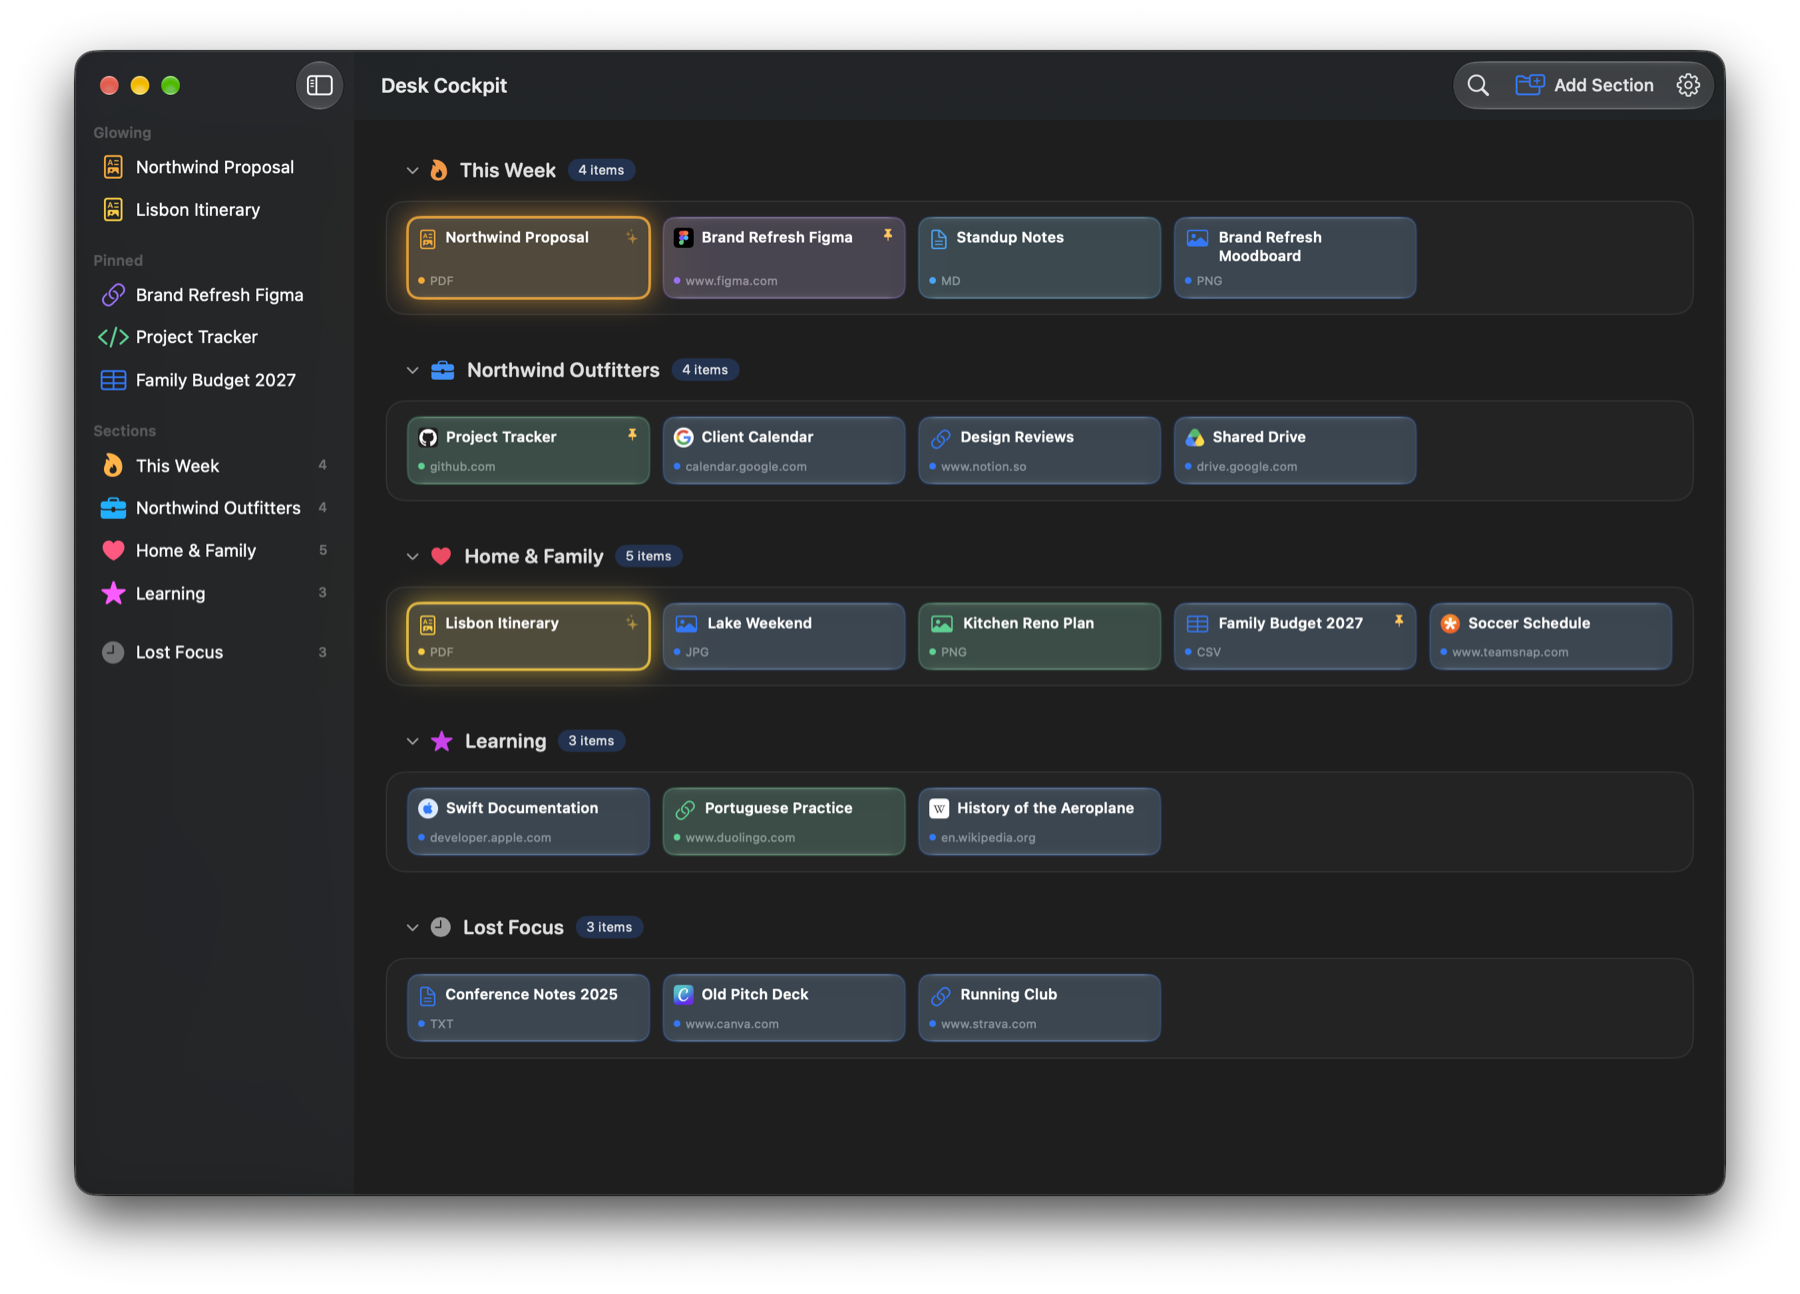
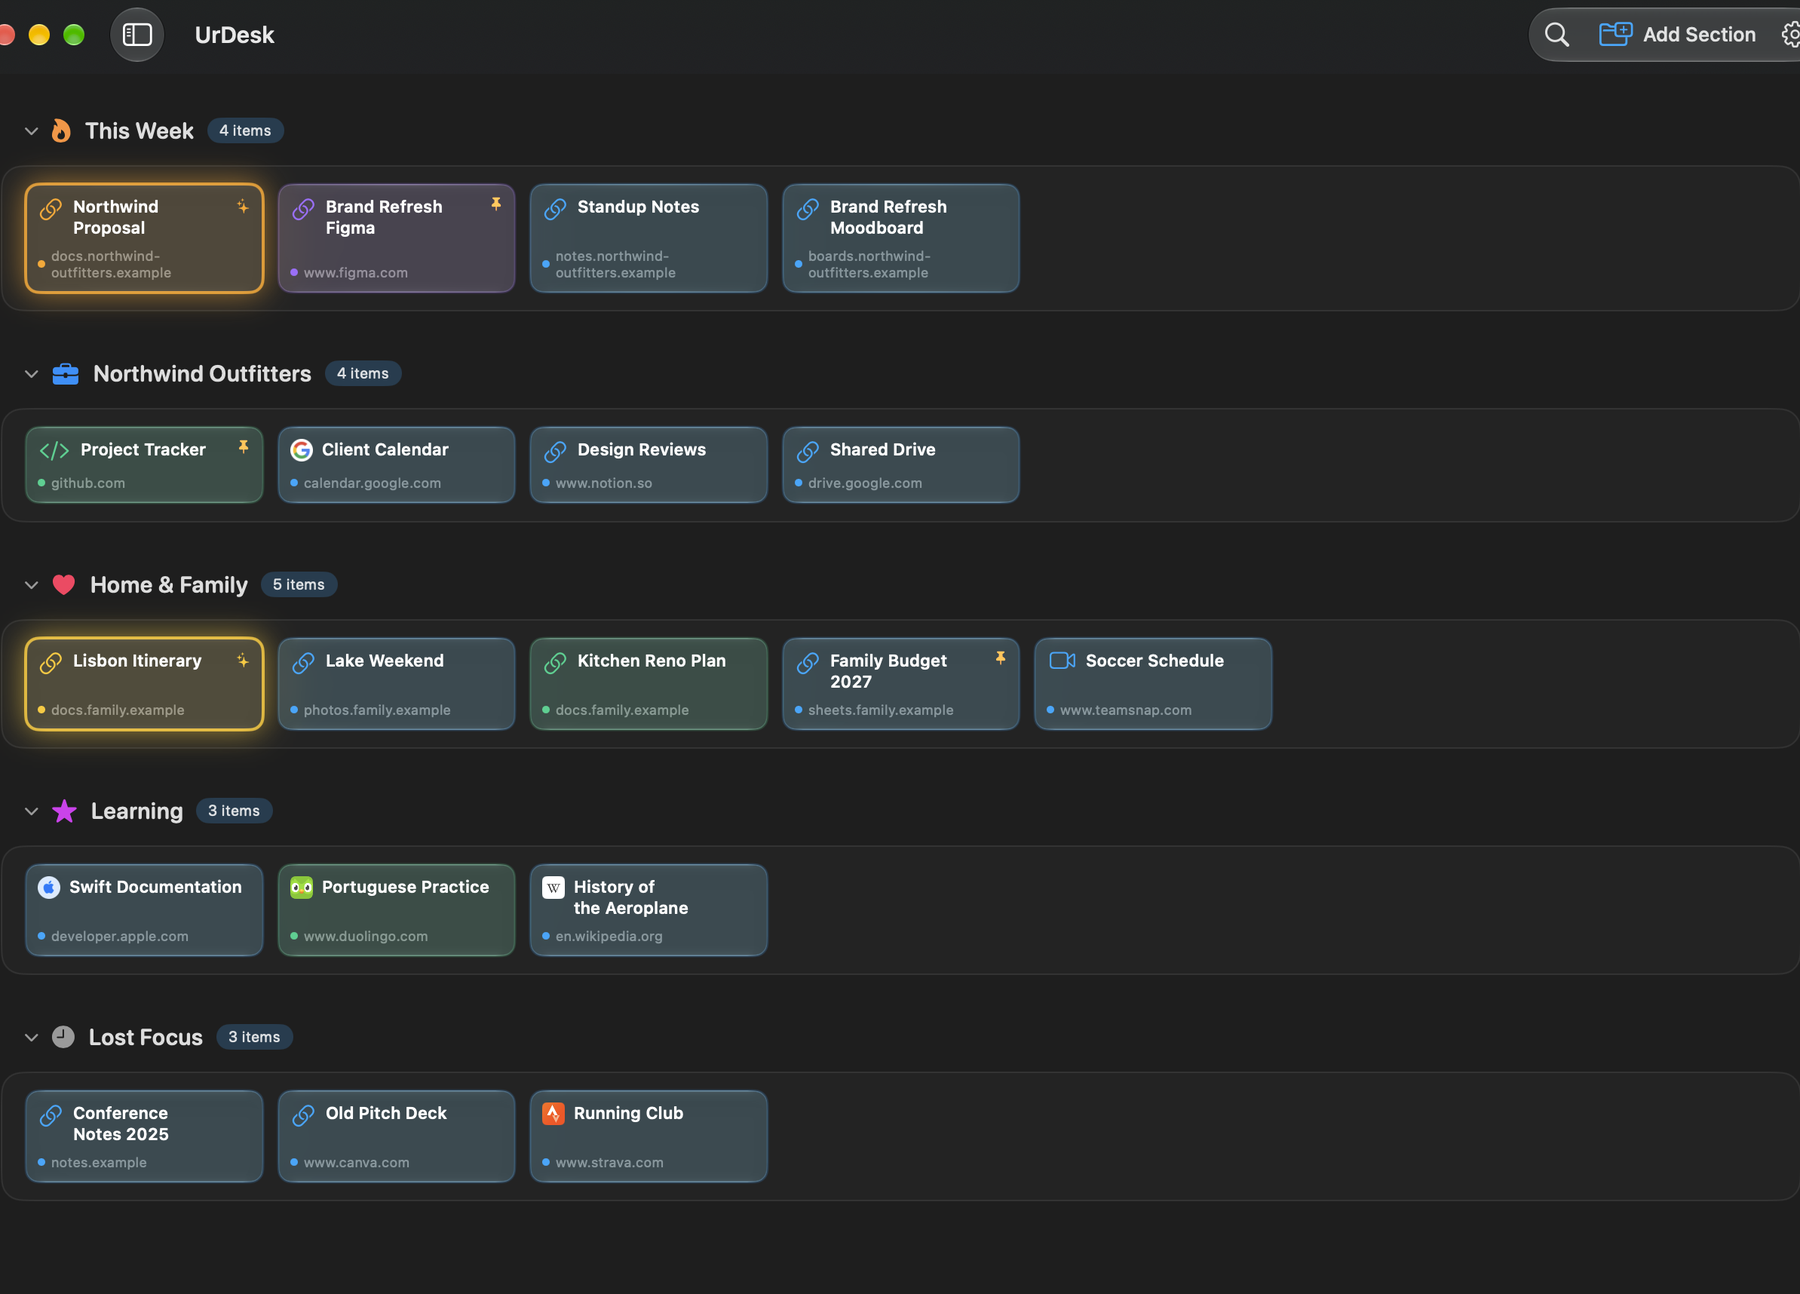
UrDesk: replace board screenshots with the new build and name
Re-captured dark, light and navy board screenshots on a sample
board (UrDesk Sample Board.json), cropped to match the site's
image size, and repositioned the hero's glow highlights to the
new card layout.

Claude-Session: https://claude.ai/code/session_013CujMaDombjgAs4f2LpEm3

diff --git a/urdesk/index.html b/urdesk/index.html
@@ -74,8 +74,8 @@
   <div class="wrap hero-shot">
     <figure class="deskshot" id="deskshot">
       <img src="/urdesk/media/board-dark.png" width="1800" height="1294" alt="The UrDesk window: sections called This Week, Northwind Outfitters, Home &amp; Family, Learning and Lost Focus, each holding cards for files and links. Two cards glow amber.">
-      <span class="lamp" style="--x:22.56%;--y:16.67%"></span>
-      <span class="lamp" style="--x:22.56%;--y:45.68%"></span>
+      <span class="lamp" style="--x:22.45%;--y:32.11%"></span>
+      <span class="lamp" style="--x:24.43%;--y:82.84%"></span>
     </figure>
   </div>
  </div>
